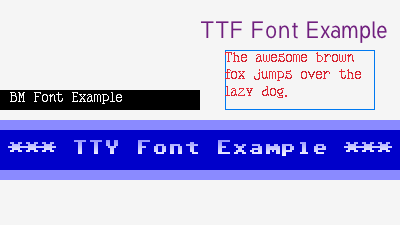
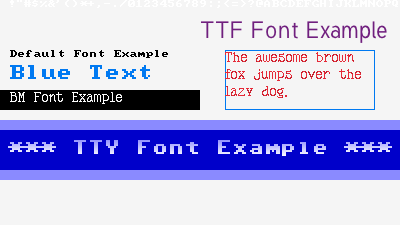
Fix default font example

Changed region(s): [[0.03, 0.2178, 0.42, 0.2489], [0.21, 0.28, 0.39, 0.3733], [0.03, 0.28, 0.18, 0.3733]]

diff --git a/examples/pntr_examples_fonts.h b/examples/pntr_examples_fonts.h
@@ -1,10 +1,17 @@
 #include "../pntr.h"
+#include <stdio.h>
 
 void pntr_examples_fonts() {
     pntr_image* canvas = pntr_gen_image_color(400, 225, PNTR_RAYWHITE);
 
     // Default Font
     pntr_font* defaultFont = pntr_load_font_default();
+    if (!defaultFont) {
+        printf("ASDFASDFASDF\n");
+        return;
+    }
+
+    pntr_draw_image(canvas, defaultFont->atlas, 0, 0);
 
     // Font Drawing
     pntr_draw_text(canvas, defaultFont, "Default Font Example", 10, 50, PNTR_BLACK);

diff --git a/examples/pntr_examples.c b/examples/pntr_examples.c
@@ -30,8 +30,7 @@
  * @image html pntr_examples_sprite.png
  */
 
-
-#define PNTR_ENABLE_DEFAUT_FONT
+#define PNTR_ENABLE_DEFAULT_FONT
 #define PNTR_ENABLE_TTF
 #define PNTR_ENABLE_VARGS
 // Math: Link the m library to use math.h

diff --git a/examples/pntr_examples_image.h b/examples/pntr_examples_image.h
@@ -1,5 +1,5 @@
-
 #include "../pntr.h"
+
 void pntr_examples_image() {
     pntr_image* canvas = pntr_gen_image_color(400, 225, PNTR_RAYWHITE);
     pntr_image* image;

diff --git a/examples/pntr_examples_alphamask.h b/examples/pntr_examples_alphamask.h
@@ -1,4 +1,3 @@
-
 #include "../pntr.h"
 
 void pntr_examples_alphamask() {
